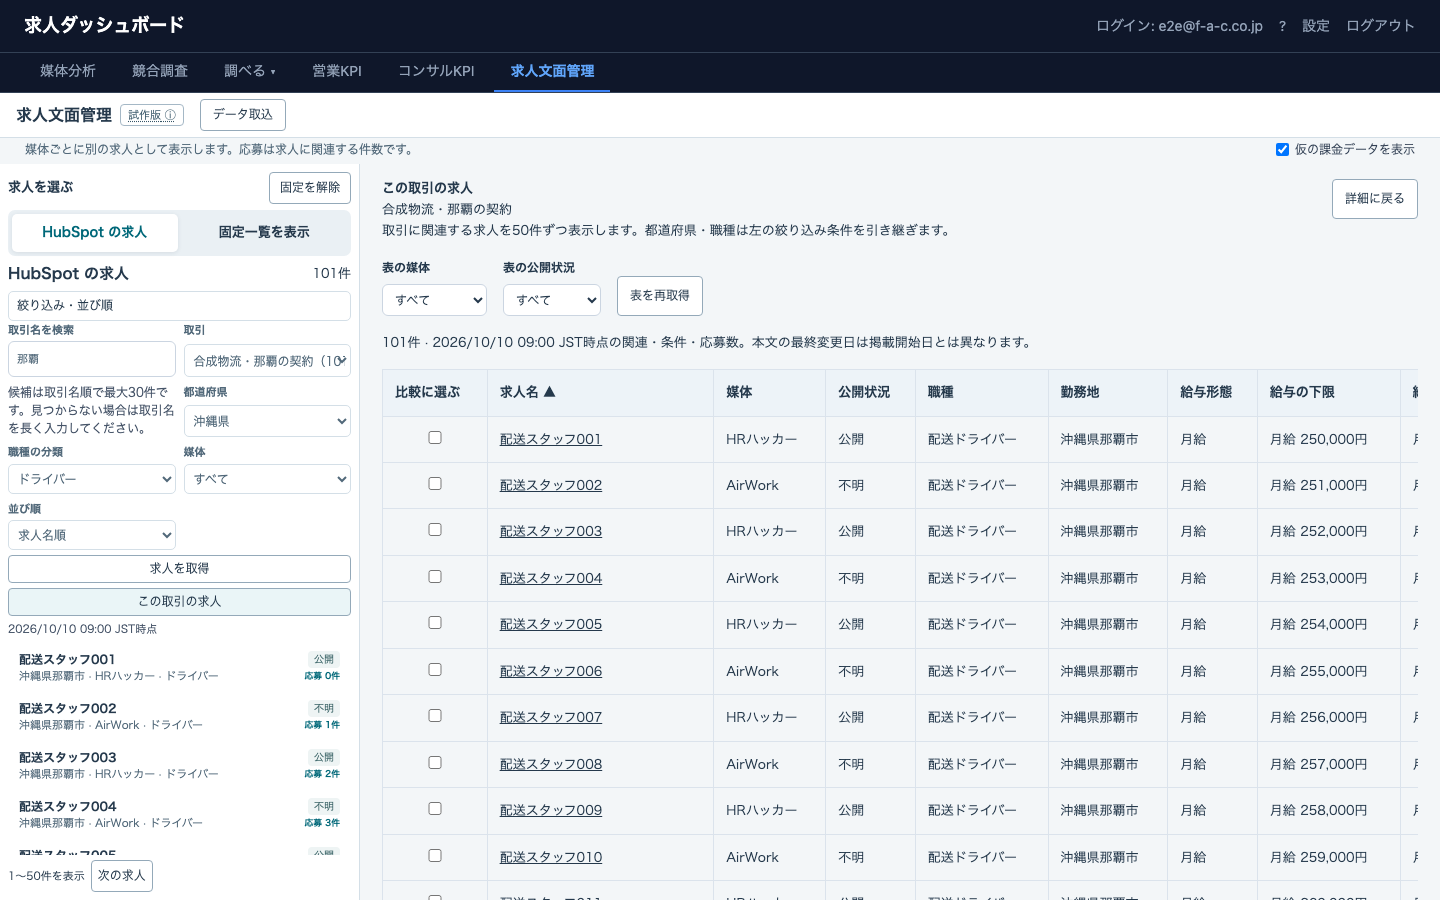
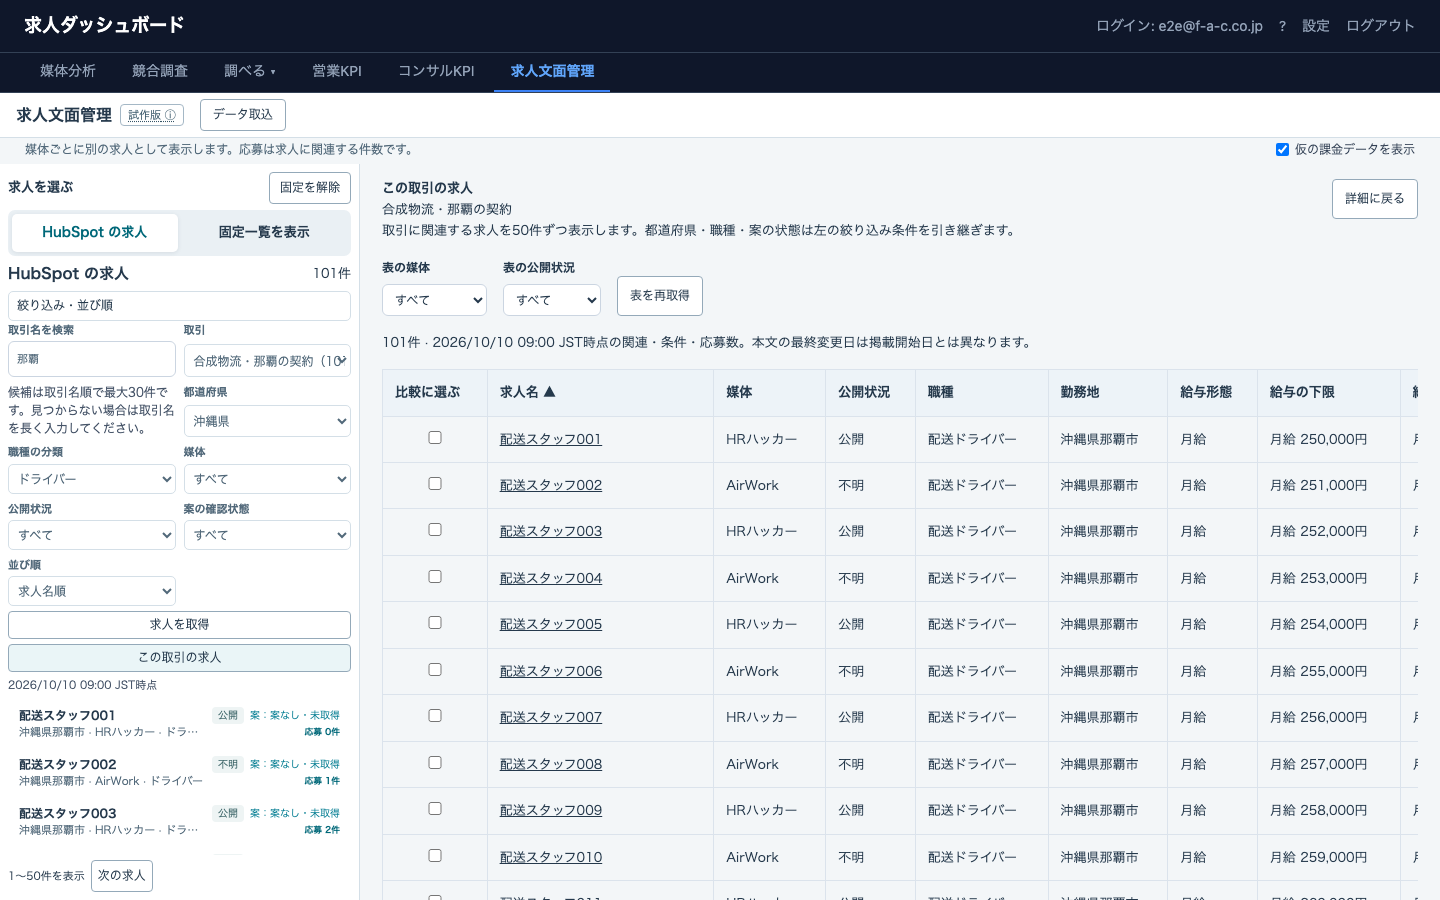
main取り込み後の画面と検証結果を記録

Changed region(s): [[0.0, 0.56, 0.25, 0.9333], [0.5, 0.2489, 0.6875, 0.28]]

diff --git a/docs/architecture/job-copy-deal-compare-plan.md b/docs/architecture/job-copy-deal-compare-plan.md
@@ -34,12 +34,11 @@ API上限と関連のbatchページ分けは [HubSpotの上限変更](https://de
 
 PR #139と重なるファイルへの変更は一覧の絞り込み・表示と比較画面の接続が中心。独立した比較コンポーネントを追加し、main更新を取り込んで検証する。
 
-実行結果（2026-10-11）:
+実行結果（2026-10-11、PR #139を取り込んだ最終構成）:
 
-- `cargo test`: ライブラリ4399件、統合99件が成功。既存の除外51件、文書テストの除外6件はそのまま。
-- 取引処理を別ファイルにまとめた後、求人文面管理のRustテスト138件が成功（既存の除外2件）。
-- フロントエンド: 型検査・lint・ビルド成功。全140ファイル1834件が成功。初回の全体実行で既存CRMのテストが1件失敗し、単独31件と全体の再実行で成功した。CRMのコードは変更していない。
-- PC用の既存と追加E2Eは34件成功。媒体・公開状況の表の絞り込みを追加確認した新規2件も1440・1920で成功。
-- 1440×900の画像: `docs/screenshots/job-copy-deal-compare/01-deal-filter-1440.png`、`02-deal-table-1440.png`、`03-parallel-1440.png`。
-- 認証したRustの画面でも追加E2E2件が成功。スクリーンショットをこの実行の画像に更新した。
-- PR作成後に #139 がmainへマージされたため、その変更を取り込んで再検証する。
+- `cargo test --lib`: ライブラリ4408件成功（既存の除外51件）。取り込み前の `cargo test` では統合99件も成功（文書テストの既存の除外6件）。
+- 求人文面管理のRustテスト147件成功（既存の除外2件）。
+- フロントエンド: 型検査・lint・ビルド成功。全141ファイル1891件が成功。取り込み前の初回の全体実行で既存CRMのテストが1件失敗し、単独31件と全体再実行で成功した。CRMのコードは変更していない。
+- PC用の既存と追加E2E34件成功。認証したRustの画面では取引比較とPR #139の管理・手直し・比較・表示を合わせて30件成功（1440・1920）。
+- 1440×900の最終構成の画像: `docs/screenshots/job-copy-deal-compare/01-deal-filter-1440.png`、`02-deal-table-1440.png`、`03-parallel-1440.png`。合成値のみを使用した。
+- PR #139を含むmainを取り込み済み。案の状態・公開状況の絞り込み、保存後の一覧更新を保ち、比較表にも左側の条件を引き継ぐ。
